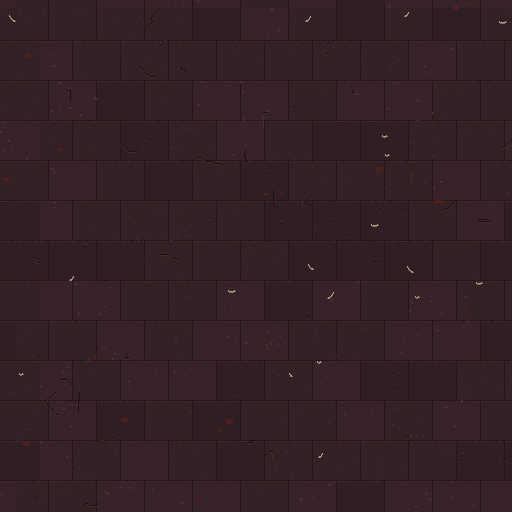
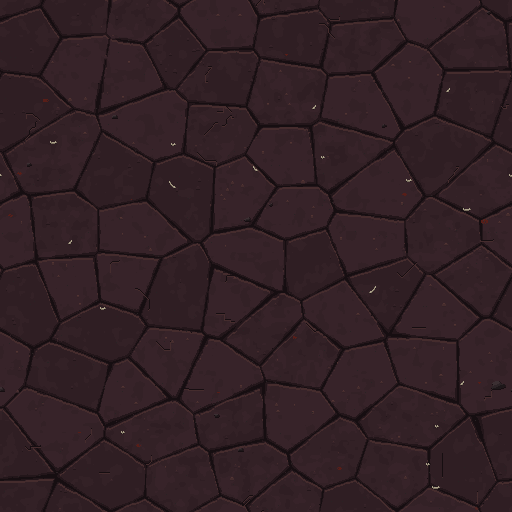
Dat Diem La: da phien co khong deu thay gach lat so le
Claude-Session: https://claude.ai/code/session_01P7zL9VnxynQDPNjSYuUZu4

diff --git a/cong_cu/claude/o_dat.py b/cong_cu/claude/o_dat.py
@@ -12,7 +12,7 @@ PRESET = {
  'nghiepkinh': dict(box=(200, 450, 1400, 950), clods=1700, stones=120, grass=0, bones=25, ash=300, blood=4, cracks=22, shards=70, acc=[(205, 230, 225), (140, 175, 180), (70, 90, 100)]),
  'uongtu':     dict(box=(200, 450, 1400, 1000), clods=1800, stones=90, grass=0, bones=40, ash=900, blood=8, cracks=20, char=14, embers=130, acc=[(250, 170, 70), (215, 80, 30), (120, 30, 20)]),
  'vongxuyen':  dict(box=(200, 700, 1400, 1100), clods=2000, stones=80, grass=25, bones=25, ash=200, blood=3, cracks=8, puddles=18, acc=[(95, 140, 140), (40, 72, 78), (20, 38, 44)]),
- 'diemla':     dict(box=(200, 500, 1400, 1000), clods=500, stones=0, grass=0, bones=18, ash=220, blood=16, cracks=26, slabs=1),
+ 'diemla':     dict(box=(200, 500, 1400, 1000), clods=300, stones=10, grass=0, bones=18, ash=260, blood=14, cracks=30, flag=70),
 }
 def build(key, seed=7):
     C = PRESET[key]; rng = np.random.default_rng(seed)
@@ -38,6 +38,31 @@ def build(key, seed=7):
     moist = pnoise(10)
     def put(y, x, v): idx[y % N, x % N] = v
     def get(y, x): return idx[y % N, x % N]
+    if C.get('flag'):  # đá phiến cổ (Diêm La): tảng không đều lặp liền, kẽ đất tối lởm chởm, mép trên sáng, mép dưới bóng, góc mòn
+        ns = C['flag']; pts = []
+        while len(pts) < ns:
+            q = rng.random(2) * N
+            ok = all(min(abs(q[0]-a0), N-abs(q[0]-a0))**2 + min(abs(q[1]-a1), N-abs(q[1]-a1))**2 > 44**2 for a0, a1 in pts)
+            if ok or rng.random() < .002: pts.append(q)
+        yy, xx = np.mgrid[0:N, 0:N]
+        d1 = np.full((N, N), 1e9); d2 = np.full((N, N), 1e9); lab = np.zeros((N, N), int)
+        wob = (pnoise(32) - .5) * 7 + (pnoise(96) - .5) * 3
+        for k, (py, px) in enumerate(pts):
+            dy = np.abs(yy - py); dy = np.minimum(dy, N - dy); dx = np.abs(xx - px); dx = np.minimum(dx, N - dx)
+            d = np.sqrt(dx * dx + dy * dy * 1.3)
+            m = d < d1; d2 = np.where(m, d1, np.minimum(d2, d)); lab = np.where(m, k, lab); d1 = np.where(m, d, d1)
+        gap = d2 - d1 + wob * .35
+        tone_c = rng.choice([2, 3, 3, 4, 4], len(pts))
+        tex = pnoise(48) + .5 * pnoise(128)
+        idx[:] = np.clip(tone_c[lab] + (tex > np.quantile(tex, .8)) - (tex < np.quantile(tex, .18)), 2, 4)
+        J = gap < 2.6 + (pnoise(64) > .6) * 1.2  # kẽ, chỗ dày chỗ mảnh
+        idx[J] = 1; idx[J & (gap < 1.4)] = 0
+        up = np.roll(J, 1, 0) | np.roll(J, 2, 0); dn = np.roll(J, -1, 0)
+        idx[~J & up & ~np.roll(J, 1, 1)] = 5   # mép trên tảng sáng
+        idx[~J & dn] = 1                      # mép dưới tảng bóng
+        for _ in range(1400):  # đất, tro lấp kẽ và góc sứt
+            y, x = rng.integers(0, N, 2)
+            if gap[y, x] < 4.5: put(y, x, int(rng.choice([1, 15, 2, 0])))
     if C.get('slabs'):  # đá lát điện Diêm La: hàng so le 32x24, mạch vữa tối, mép trên sáng
         SW, SH = 48, 40
         for r in range(N // SH + 1):

diff --git a/CLAUDE.md b/CLAUDE.md
@@ -881,3 +881,4 @@ Quyết định (chủ game không chọn riêng nên lấy đề xuất): hình
 - (27/11) **Ô đất bản 2 (chủ game: "ổn nhưng đất hơi xấu"):** `o_dat.py` viết lại: mảng nền 3 tông sát nhau, mép lởm chởm (thêm nhiễu tần số cao) thay mảng loang rằn ri; ~2300 cục đất nhỏ có viền sáng trên/tối dưới; ~95 hòn đá nhiều cỡ hình bất quy tắc, 3 tông xám ngả màu đất + viền tối dưới-phải; cụm cỏ khô nhạt mọc chỗ đất ẩm; vài vết nứt ngắn gấp khúc. 12 màu. Ảnh `nguon/tham_chieu/mat_dat_1to1_hoangtuyen_v2_27-11.png`.
 - (27/11) **Ô đất bản 3 theo bối cảnh âm phủ (chủ game nhắc luật 11):** bỏ cỏ khô vàng (trông như ruộng), thay cỏ chết xám tro ít và rủ; thêm xương vụn (45, màu xương đục), đốm tro xám, vết máu khô nhỏ. 16 màu. Ảnh `nguon/tham_chieu/mat_dat_1to1_hoangtuyen_v3_27-11.png`. Đề xuất chi tiết đất 6 map còn lại (chờ duyệt): Quỷ Môn Quan đất đá nện + xích gãy; Bỉ Ngạn đất đỏ tím + cánh hoa bỉ ngạn rụng; Nghiệt Kính đá lạnh xanh xám + mảnh gương vỡ; Uổng Tử đất cháy đen + than hồng, tro; Vong Xuyên bùn xanh đen ẩm + vũng nước; Diêm La đá lát đen nứt + vết máu.
 - (27/11) **MẶT ĐẤT 1:1 CHO CẢ 7 MAP ÂM GIỚI (chủ game duyệt "làm đi").** `python3 cong_cu/claude/o_dat.py all` dựng `game/assets/map/Dt_<map>.png` theo `PRESET` từng map (vùng lấy màu `box` + số lượng chi tiết): Hoàng Tuyền (xương, tro, máu khô, cỏ chết), Quỷ Môn Quan (đất đá xanh xám + xích sắt gãy), Bỉ Ngạn (đất đen đỏ + cụm cánh hoa bỉ ngạn rụng), Nghiệt Kính (đá lạnh tím xanh + mảnh gương vỡ loé), Uổng Tử (đất lốm đốm cháy + tro + than hồng), Vong Xuyên (bùn xanh đen + vũng nước tù, CHỈ bờ dưới sông `field y0=1340`, bờ trên giữ ảnh cũ), Diêm La (đá lát 48×40 so le, nứt, vết máu). `M.field` từng map ghi trong `MAPS.am_*`. Ảnh đất đã nén bảng màu (`png_palette.py`), tổng ~220 KB. Luân Hồi Đài chưa có (không có ảnh nền ChatGPT). Ảnh: `nguon/tham_chieu/mat_dat_6map_27-11.png`, `mat_dat_6map_toan_canh_27-11.png`. **`pack_check.sh` báo mở game 6,13/6,1 MB VƯỢT, có từ trước (đo bản chưa có đất cũng 6,13; do các icon/ảnh sảnh 26/11), chưa xử lý.**
+- (27/11) **Đất Diêm La đổi từ gạch lát so le (chủ game: "nhìn hơi hiện đại") sang ĐÁ PHIẾN CỔ:** `PRESET.diemla` dùng `flag=70` thay `slabs`: tảng đá không đều kiểu Voronoi lặp liền (tâm tảng rải cách nhau ≥44 px để không ra tảng nêm mảnh), mép tảng lượn sóng, kẽ đất tối dày mỏng không đều, mép trên tảng sáng, mép dưới bóng, đất và tro lấp kẽ, vẫn có nứt, xương vụn, máu khô. Mode `slabs` (gạch so le) còn trong `o_dat.py` nhưng không dùng. Ảnh `nguon/tham_chieu/mat_dat_diemla_da_phien_co_27-11.png`.
